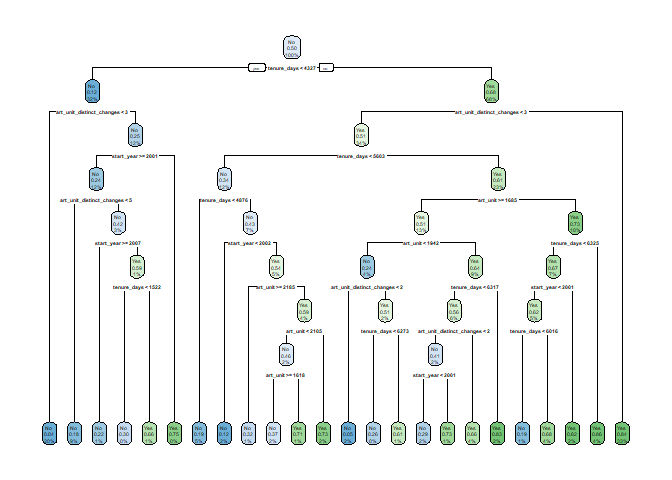
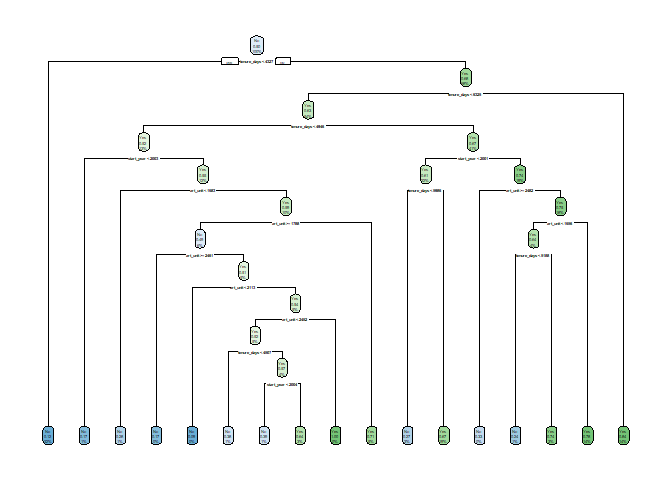
Update to the variables (remove the art unit distinct changes variables)

diff --git a/Assignments/Assignment 3/Assignment--3-Code.md b/Assignments/Assignment 3/Assignment--3-Code.md
@@ -73,6 +73,9 @@ person_level_data_complete <- merge(
 #remove the NAs from the art_unit changes in dataset
 person_level_data_complete <- person_level_data_complete %>%
 filter(!is.na(art_unit_changes))
+
+person_level_data_complete <- person_level_data_complete %>%
+filter(!is.na(start_year))
 ```
 
 ## Feature Engineering for Categorical Variable
@@ -105,7 +108,7 @@ person_level_data_complete = person_level_data_complete[,!(names(person_level_da
 
 ``` r
 predictors<-c("art_unit","gender","start_year","tenure_days","tc","work_group","art_unit_distinct_changes")
-logit=glm(high_mobility~art_unit+gender+start_year+tenure_days+tc+work_group+art_unit_distinct_changes,data=person_level_data_complete,family = "binomial")
+logit=glm(high_mobility~art_unit+gender+tenure_days+tc+work_group+start_year,data=person_level_data_complete,family = "binomial")
 
 
 #logit_complete=glm(high_mobility~art_unit+gender+start_year+latest_date+tenure_days+tc+work_group+art_unit_distinct_changes,data=person_level_data_complete,family = "binomial")
@@ -115,32 +118,30 @@ summary(logit)
 
     ## 
     ## Call:
-    ## glm(formula = high_mobility ~ art_unit + gender + start_year + 
-    ##     tenure_days + tc + work_group + art_unit_distinct_changes, 
-    ##     family = "binomial", data = person_level_data_complete)
+    ## glm(formula = high_mobility ~ art_unit + gender + tenure_days + 
+    ##     tc + work_group + start_year, family = "binomial", data = person_level_data_complete)
     ## 
     ## Deviance Residuals: 
     ##     Min       1Q   Median       3Q      Max  
-    ## -3.0670  -0.7479  -0.1007   0.7991   3.3822  
+    ## -1.9134  -0.8612  -0.2276   0.8309   2.7119  
     ## 
     ## Coefficients:
-    ##                             Estimate Std. Error z value Pr(>|z|)    
-    ## (Intercept)                2.631e+02  5.738e+01   4.585 4.55e-06 ***
-    ## art_unit                   9.793e-03  1.661e-02   0.590 0.555525    
-    ## gendermale                 2.312e-03  8.947e-02   0.026 0.979390    
-    ## start_year                -1.341e-01  2.855e-02  -4.698 2.62e-06 ***
-    ## tenure_days                7.405e-04  6.109e-05  12.122  < 2e-16 ***
-    ## tc                         6.919e-03  1.782e-03   3.884 0.000103 ***
-    ## work_group                -1.651e-02  1.649e-02  -1.001 0.316654    
-    ## art_unit_distinct_changes  6.764e-01  3.472e-02  19.480  < 2e-16 ***
+    ##               Estimate Std. Error z value Pr(>|z|)    
+    ## (Intercept)  1.021e+02  5.228e+01   1.952   0.0509 .  
+    ## art_unit    -1.517e-02  1.541e-02  -0.984   0.3249    
+    ## gendermale   7.948e-02  8.333e-02   0.954   0.3402    
+    ## tenure_days  7.520e-04  5.844e-05  12.868  < 2e-16 ***
+    ## tc           7.861e-03  1.629e-03   4.824  1.4e-06 ***
+    ## work_group   8.001e-03  1.527e-02   0.524   0.6003    
+    ## start_year  -5.334e-02  2.600e-02  -2.052   0.0402 *  
     ## ---
     ## Signif. codes:  0 '***' 0.001 '**' 0.01 '*' 0.05 '.' 0.1 ' ' 1
     ## 
     ## (Dispersion parameter for binomial family taken to be 1)
     ## 
     ##     Null deviance: 5499.1  on 3966  degrees of freedom
-    ## Residual deviance: 3771.5  on 3959  degrees of freedom
-    ## AIC: 3787.5
+    ## Residual deviance: 4286.7  on 3960  degrees of freedom
+    ## AIC: 4300.7
     ## 
     ## Number of Fisher Scoring iterations: 5
 
@@ -179,7 +180,7 @@ library(rms)
     ##     backsolve
 
 ``` r
-logit_lrm=lrm(high_mobility~art_unit+gender+start_year+tenure_days+tc+work_group+art_unit_distinct_changes,data=person_level_data_complete)
+logit_lrm=lrm(high_mobility~art_unit+gender+tenure_days+tc+work_group+start_year,data=person_level_data_complete,maxit=1000,tol=1e-11)
 
 
 #logit_complete=glm(high_mobility~art_unit+gender+start_year+latest_date+tenure_days+tc+work_group+art_unit_distinct_changes,data=person_level_data_complete,family = "binomial")
@@ -189,26 +190,25 @@ logit_lrm
 
     ## Logistic Regression Model
     ##  
-    ##  lrm(formula = high_mobility ~ art_unit + gender + start_year + 
-    ##      tenure_days + tc + work_group + art_unit_distinct_changes, 
-    ##      data = person_level_data_complete)
+    ##  lrm(formula = high_mobility ~ art_unit + gender + tenure_days + 
+    ##      tc + work_group + start_year, data = person_level_data_complete, 
+    ##      tol = 1e-11, maxit = 1000)
     ##  
-    ##                         Model Likelihood     Discrimination    Rank Discrim.    
-    ##                               Ratio Test            Indexes          Indexes    
-    ##  Obs          3967    LR chi2    1727.55     R2       0.471    C       0.854    
-    ##   No          2002    d.f.             7    R2(7,3967)0.352    Dxy     0.708    
-    ##   Yes         1965    Pr(> chi2) <0.0001    R2(7,2975)0.439    gamma   0.708    
-    ##  max |deriv| 6e-08                           Brier    0.154    tau-a   0.354    
+    ##                          Model Likelihood     Discrimination    Rank Discrim.    
+    ##                                Ratio Test            Indexes          Indexes    
+    ##  Obs           3967    LR chi2    1212.41     R2       0.351    C       0.795    
+    ##   No           2002    d.f.             6    R2(6,3967)0.262    Dxy     0.590    
+    ##   Yes          1965    Pr(> chi2) <0.0001    R2(6,2975)0.333    gamma   0.590    
+    ##  max |deriv| 0.0001                           Brier    0.179    tau-a   0.295    
     ##  
-    ##                            Coef     S.E.    Wald Z Pr(>|Z|)
-    ##  Intercept                 263.0525 57.3761  4.58  <0.0001 
-    ##  art_unit                    0.0098  0.0166  0.59  0.5555  
-    ##  gender=male                 0.0023  0.0895  0.03  0.9794  
-    ##  start_year                 -0.1341  0.0285 -4.70  <0.0001 
-    ##  tenure_days                 0.0007  0.0001 12.12  <0.0001 
-    ##  tc                          0.0069  0.0018  3.88  0.0001  
-    ##  work_group                 -0.0165  0.0165 -1.00  0.3167  
-    ##  art_unit_distinct_changes   0.6764  0.0347 19.48  <0.0001 
+    ##              Coef     S.E.    Wald Z Pr(>|Z|)
+    ##  Intercept   102.0712 52.2810  1.95  0.0509  
+    ##  art_unit     -0.0152  0.0154 -0.98  0.3249  
+    ##  gender=male   0.0795  0.0833  0.95  0.3402  
+    ##  tenure_days   0.0008  0.0001 12.87  <0.0001 
+    ##  tc            0.0079  0.0016  4.82  <0.0001 
+    ##  work_group    0.0080  0.0153  0.52  0.6003  
+    ##  start_year   -0.0533  0.0260 -2.05  0.0402  
     ## 
 
 #### Tree model
@@ -218,14 +218,23 @@ library(tree)
 library(rpart)
 library(rpart.plot)
 
-mytree=rpart(high_mobility~art_unit+gender+start_year+tenure_days+tc+work_group+art_unit_distinct_changes,data=person_level_data_complete,control=rpart.control(cp=0.01))
+mytree=rpart(
+  high_mobility~art_unit+gender+start_year+tenure_days+tc+work_group,
+  data=person_level_data_complete,
+  control=rpart.control(cp=0.01)
+)
 rpart.plot(mytree)
 ```
 
 ![](Assignment--3-Code_files/figure-gfm/tree%20model%20all%20data-1.png)<!-- -->
 
 ``` r
-myoverfittedtree=rpart(high_mobility~art_unit+gender+start_year+tenure_days+tc+work_group+art_unit_distinct_changes,data=person_level_data_complete,control=rpart.control(cp=0.0001))
+myoverfittedtree=rpart(
+  high_mobility~art_unit+gender+start_year+tenure_days+tc+work_group,
+  data=person_level_data_complete,
+  control=rpart.control(cp=0.0001)
+)
+
 opt_cp=myoverfittedtree$cptable[which.min(myoverfittedtree$cptable[,"xerror"]),"CP"]
 plotcp(myoverfittedtree)
 ```
@@ -233,7 +242,12 @@ plotcp(myoverfittedtree)
 ![](Assignment--3-Code_files/figure-gfm/optimal%20cp%20value%20for%20tree%20all%20data-1.png)<!-- -->
 
 ``` r
-mytree_optimal=rpart(high_mobility~art_unit+gender+start_year+tenure_days+tc+work_group+art_unit_distinct_changes,data=person_level_data_complete,control=rpart.control(cp=opt_cp))
+mytree_optimal=rpart(
+  high_mobility~art_unit+gender+start_year+tenure_days+tc+work_group,
+  data=person_level_data_complete,
+  control=rpart.control(cp=opt_cp)
+)
+
 rpart.plot(mytree_optimal)
 ```
 
@@ -344,21 +358,21 @@ c(accuracy_glm,precision_glm,recall_glm,F1_glm)
 ```
 
     ##  Accuracy Precision    Recall        F1 
-    ## 0.7537182 0.7134527 0.8556444 0.7781058
+    ## 0.7146458 0.6984489 0.7647353 0.7300906
 
 ``` r
 c(accuracy_rlm,precision_rlm,recall_rlm,F1_rlm)
 ```
 
     ##  Accuracy Precision    Recall        F1 
-    ## 0.7537182 0.7134527 0.8556444 0.7781058
+    ## 0.7146458 0.6984489 0.7647353 0.7300906
 
 ``` r
 c(accuracy_tree,precision_tree,recall_tree,F1_tree)
 ```
 
     ##  Accuracy Precision    Recall        F1 
-    ## 0.8338795 0.8749302 0.7827173 0.8262589
+    ## 0.7874968 0.8459701 0.7077922 0.7707370
 
 ### Assume Data Split into Training and Testing data sets
 
@@ -376,7 +390,7 @@ test   <- person_level_data_complete[!sample, ]
 
 ``` r
 logit=glm(
-  high_mobility~art_unit+gender+start_year+tenure_days+tc+work_group+art_unit_distinct_changes,
+  high_mobility~art_unit+gender+start_year+tenure_days+tc+work_group,
   data=train,
   family = "binomial"
 )
@@ -387,31 +401,29 @@ summary(logit)
     ## 
     ## Call:
     ## glm(formula = high_mobility ~ art_unit + gender + start_year + 
-    ##     tenure_days + tc + work_group + art_unit_distinct_changes, 
-    ##     family = "binomial", data = train)
+    ##     tenure_days + tc + work_group, family = "binomial", data = train)
     ## 
     ## Deviance Residuals: 
     ##     Min       1Q   Median       3Q      Max  
-    ## -2.8521  -0.7477  -0.0958   0.7945   3.3890  
+    ## -1.9196  -0.8549  -0.2097   0.8168   2.7688  
     ## 
     ## Coefficients:
-    ##                             Estimate Std. Error z value Pr(>|z|)    
-    ## (Intercept)                2.088e+02  7.254e+01   2.878  0.00401 ** 
-    ## art_unit                   4.438e-03  2.004e-02   0.222  0.82469    
-    ## gendermale                -2.726e-02  1.074e-01  -0.254  0.79972    
-    ## start_year                -1.072e-01  3.608e-02  -2.971  0.00297 ** 
-    ## tenure_days                8.362e-04  7.982e-05  10.476  < 2e-16 ***
-    ## tc                         6.956e-03  2.154e-03   3.229  0.00124 ** 
-    ## work_group                -1.122e-02  1.987e-02  -0.565  0.57227    
-    ## art_unit_distinct_changes  6.500e-01  4.182e-02  15.542  < 2e-16 ***
+    ##               Estimate Std. Error z value Pr(>|z|)    
+    ## (Intercept)  5.241e+01  6.665e+01   0.786 0.431679    
+    ## art_unit    -1.651e-02  1.873e-02  -0.882 0.378044    
+    ## gendermale   5.990e-02  1.004e-01   0.597 0.550786    
+    ## start_year  -2.872e-02  3.313e-02  -0.867 0.386118    
+    ## tenure_days  8.378e-04  7.631e-05  10.980  < 2e-16 ***
+    ## tc           7.641e-03  1.983e-03   3.853 0.000117 ***
+    ## work_group   9.517e-03  1.855e-02   0.513 0.607945    
     ## ---
     ## Signif. codes:  0 '***' 0.001 '**' 0.01 '*' 0.05 '.' 0.1 ' ' 1
     ## 
     ## (Dispersion parameter for binomial family taken to be 1)
     ## 
     ##     Null deviance: 3828.7  on 2761  degrees of freedom
-    ## Residual deviance: 2617.2  on 2754  degrees of freedom
-    ## AIC: 2633.2
+    ## Residual deviance: 2942.9  on 2755  degrees of freedom
+    ## AIC: 2956.9
     ## 
     ## Number of Fisher Scoring iterations: 5
 
@@ -419,7 +431,7 @@ summary(logit)
 
 ``` r
 myoverfittedtree=rpart(
-  high_mobility~art_unit+gender+start_year+tenure_days+tc+work_group+art_unit_distinct_changes,
+  high_mobility~art_unit+gender+start_year+tenure_days+tc+work_group,
   data=train,
   control=rpart.control(cp=0.0001)
 )
@@ -435,7 +447,7 @@ remove(myoverfittedtree)
 
 ``` r
 mytree_optimal=rpart(
-  high_mobility~art_unit+gender+start_year+tenure_days+tc+work_group+art_unit_distinct_changes,
+  high_mobility~art_unit+gender+start_year+tenure_days+tc+work_group,
   data=person_level_data_complete,
   control=rpart.control(cp=opt_cp)
 )
@@ -497,14 +509,14 @@ c(accuracy_glm,precision_glm,recall_glm,F1_glm)
 ```
 
     ##  Accuracy Precision    Recall        F1 
-    ## 0.7560166 0.7194951 0.8451400 0.7772727
+    ## 0.7053942 0.6863905 0.7644152 0.7233048
 
 ``` r
 c(accuracy_tree,precision_tree,recall_tree,F1_tree)
 ```
 
     ##  Accuracy Precision    Recall        F1 
-    ## 0.8381743 0.8601399 0.8105437 0.8346056
+    ## 0.7858921 0.8483034 0.7001647 0.7671480
 
 # ROC Curves & AUC with Training & Test Data
 
@@ -584,8 +596,8 @@ aucs_glm
 ```
 
     ##   modnames dsids curvetypes      aucs
-    ## 1       m1     1        ROC 0.7553459
-    ## 2       m1     1        PRC 0.7414496
+    ## 1       m1     1        ROC 0.7049501
+    ## 2       m1     1        PRC 0.6772011
 
 ``` r
 # Use knitr::kable to display the result in a table format
@@ -600,8 +612,8 @@ aucs_tree
 ```
 
     ##   modnames dsids curvetypes      aucs
-    ## 1       m1     1        ROC 0.8383822
-    ## 2       m1     1        PRC 0.7922232
+    ## 1       m1     1        ROC 0.7865372
+    ## 2       m1     1        PRC 0.7231303
 
 ``` r
 # Use knitr::kable to display the result in a table format
